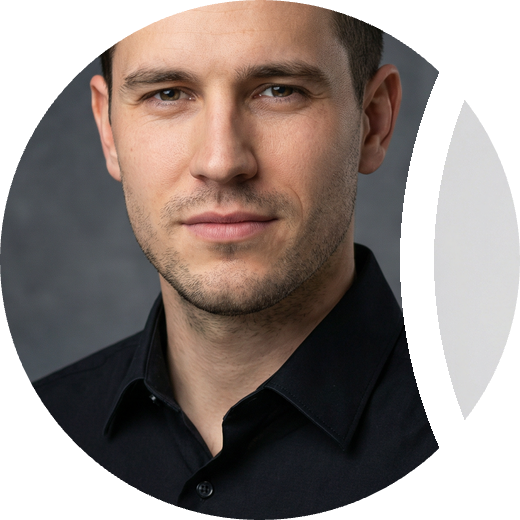
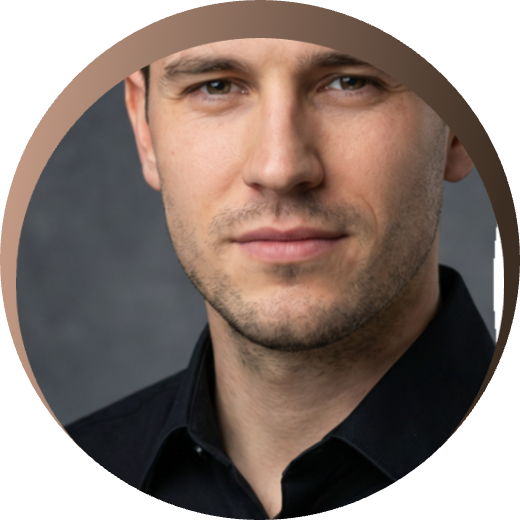
Update homepage and face-5 asset

diff --git a/index.html b/index.html
@@ -190,16 +190,18 @@
   .head .hero-sub u { text-decoration: none; color: var(--amber-2); font-style: italic; font-weight: 600; letter-spacing: -0.045em; }
   .brand-plate {
     position: relative;
-    display: inline-flex; align-items: center; justify-content: center;
+    display: inline-flex; flex-direction: column; align-items: center; justify-content: center; gap: 8px;
     font-family: 'General Sans', 'Geist', sans-serif;
     font-weight: 600; font-size: 20px; letter-spacing: -0.01em;
     color: var(--ink);
-    padding: 18px 44px; margin: 16px auto 22px;
+    padding: 18px 40px 20px; margin: 16px auto 6px;
     border: 2.5px solid var(--amber);
     border-radius: 3px;
     background: transparent;
     box-shadow: 0 3px 14px rgba(169,119,47,0.16);
   }
+  .plate-name { font-size: 15px; letter-spacing: 0.1em; text-transform: uppercase; color: var(--amber-2, var(--amber)); }
+  .brand-plate .hero-hook { font-size: clamp(19px, 2vw, 24px); line-height: 1.3; letter-spacing: -0.02em; max-width: 620px; }
   /* inner beveled line — double-frame molding */
   .brand-plate::before {
     content: "";
@@ -333,7 +335,7 @@
   .face.f2 { background-image: url('assets/face-2.png?v=27'); }
   .face.f3 { background-image: url('assets/face-3.png?v=27'); }
   .face.f4 { background-image: url('assets/face-4.png?v=27'); }
-  .face.f5 { background-image: url('assets/face-5.png?v=27'); }
+  .face.f5 { background-image: url('assets/face-7.png?v=28'); }
   .face.f6 { background-image: url('assets/face-6.png?v=27'); }
   .face.f7 { background-image: url('assets/face-7.png?v=27'); }
 
@@ -986,14 +988,14 @@
     .trust-label { text-align: left; }
     .trust-divider { display: none; }
     /* keep the 130+ firms / Built-by strip horizontal on mobile */
-    .trust-bottom { flex-direction: row; flex-wrap: nowrap; gap: 8px; }
-    .trust-bottom .trust-item { gap: 4px; flex-shrink: 1; min-width: 0; }
-    .trust-bottom .face { width: 24px; height: 24px; margin-left: -8px; border-width: 1.5px; }
+    .trust-bottom { flex-direction: row; flex-wrap: nowrap; gap: 20px; justify-content: center; }
+    .trust-bottom .trust-item { gap: 4px; justify-content: center; }
+    .trust-bottom .face { width: 30px; height: 30px; margin-left: -9px; border-width: 1.5px; }
     .trust-bottom .face:first-child { margin-left: 0; }
-    .trust-bottom .trust-label { font-size: 10px; line-height: 1.35; max-width: none; margin-left: 4px !important; }
-    .trust-bottom .trust-label b { font-size: 11px; }
-    .trust-bottom .creds-row { gap: 5px; }
-    .trust-bottom .creds-logo-img { height: 16px; }
+    .trust-bottom .trust-label { font-size: 12px; line-height: 1.4; max-width: none; margin-left: 5px !important; }
+    .trust-bottom .trust-label b { font-size: 13.5px; }
+    .trust-bottom .creds-row { gap: 6px; }
+    .trust-bottom .creds-logo-img { height: 21px; }
     .bullet { grid-template-columns: 56px 1fr; gap: 14px; }
     .trust-cta-row { flex-direction: column; align-items: center; gap: 14px; }
     .subhead { text-align: center; }
@@ -1106,7 +1108,7 @@
     /* Hero mobile breathing room */
     .hero-wrap .head { margin-bottom: 8px; }
     .hero-wrap { padding-left: 12px !important; padding-right: 12px !important; }
-    .hero-sub { font-size: 15px; letter-spacing: -0.01em; line-height: 1.5; }
+    .hero-sub { font-size: 21px; letter-spacing: -0.02em; line-height: 1.35; }
     .trust-tp-only { padding: 28px 0 0; margin-top: 8px; }
     .trust-cta-row {
       padding-top: 120px !important;
@@ -1136,6 +1138,38 @@
   .callout { margin-top: 0 !important; }
   .testi-carousel { padding-top: 20px !important; }
   .trust-bottom .trust-label b { font-weight: 600; color: var(--ink); }
+  /* ---------- FAQ ---------- */
+  .faq-section { padding: 76px 32px 92px; background: var(--paper-1); }
+  .faq-inner { max-width: 760px; margin: 0 auto; }
+  .faq-head {
+    font-family: 'General Sans', 'Geist', sans-serif;
+    font-size: clamp(26px, 3vw, 36px); font-weight: 600; letter-spacing: -0.03em;
+    color: var(--ink); text-align: center; margin: 0 0 36px;
+  }
+  .faq-item {
+    border: 1px solid var(--line); border-radius: 12px;
+    background: var(--paper-1); margin-bottom: 12px; overflow: hidden;
+    box-shadow: 0 1px 0 rgba(23,51,45,0.04), 0 8px 24px -18px rgba(23,51,45,0.12);
+  }
+  .faq-question {
+    display: flex; align-items: center; justify-content: space-between; gap: 16px;
+    width: 100%; padding: 18px 20px;
+    background: none; border: none; cursor: pointer; text-align: left;
+    font-family: 'General Sans', 'Geist', sans-serif; font-weight: 600;
+    font-size: 17px; letter-spacing: -0.01em; color: var(--ink);
+  }
+  .faq-chev { display: inline-flex; color: var(--amber-2); flex-shrink: 0; transition: transform 0.25s ease; }
+  .faq-item.active .faq-chev { transform: rotate(180deg); }
+  .faq-answer { max-height: 0; overflow: hidden; transition: max-height 0.3s ease; }
+  .faq-item.active .faq-answer { max-height: 340px; }
+  .faq-answer-inner { padding: 0 20px 18px; font-size: 15.5px; line-height: 1.65; color: var(--ink); opacity: 0.78; }
+  @media (max-width: 640px) {
+    .faq-section { padding: 48px 20px 64px; }
+    .faq-head { margin-bottom: 24px; }
+    .faq-question { font-size: 15px; padding: 15px 16px; gap: 12px; }
+    .faq-answer-inner { font-size: 13.5px; line-height: 1.6; padding: 0 16px 15px; }
+    .faq-item.active .faq-answer { max-height: 420px; }
+  }
   .callout {
     max-width: 680px;
     margin: 4px auto 36px;
@@ -1214,13 +1248,15 @@
     margin: 20px auto 0;
   }
   @media (max-width: 640px) {
-    .hero-hook { font-size: 21px; }
+    .hero-hook { font-size: 17.5px; letter-spacing: 0; }
     h1.head > span[aria-hidden="true"] { margin: 12px auto !important; }
-    .brand-plate { font-size: 12px; padding: 7px 16px; }
+    .brand-plate { padding: 12px 18px 14px; gap: 5px; margin-bottom: 2px; }
+    .plate-name { font-size: 11.5px; }
     .callout { padding: 14px 16px; margin-bottom: 24px; }
     .callout-label { font-size: 9.5px; margin-bottom: 8px; }
     .callout p { font-size: 13px; line-height: 1.55; margin-bottom: 10px; }
-    .calendar-band h2 { font-size: 20px; letter-spacing: -0.03em; }
+    .calendar-band h2 { font-size: 19px; letter-spacing: -0.03em; line-height: 1.35; text-wrap: balance; }
+    .calendar-band h2 .mbr { display: none; }
     .mbr { display: block; }
     .bullets-head { font-size: 20px; line-height: 1.3; }
     .bullets-close { font-size: 13.5px; line-height: 1.55; }
@@ -1258,10 +1294,8 @@
 
 
 
-    <div style="text-align:center;"><div class="brand-plate">The Retainer Pixel&trade;</div></div>
-
     <h1 class="head" style="font-size: 32px;">
-      <span class="hero-hook">Personal Injury&rsquo;s First <span class="stanford-mark">Stanford-Built</span> AI Acquisition Pixel &mdash; Pay Only for <u>Signed MVA Retainers</u></span>
+      <span class="brand-plate"><span class="plate-name">The Retainer Pixel&trade;</span><span class="hero-hook">Personal Injury&rsquo;s First <span class="stanford-mark">Stanford-Built</span> AI Acquisition Pixel &mdash; Pay Only for <u>Signed MVA Retainers</u></span></span>
       <span aria-hidden="true" style="display:block;width:96px;height:1px;margin:22px auto;background:var(--amber);opacity:0.85;"></span>
       <span class="hero-sub">Our AI Trained on Signed Cases (Not Clicks) Predictably Sources Exclusive, Clear-Liability MVA Claimants Under Your Brand. Our 24/7 Bilingual Intake Team Signs Them and <u>Guarantees 30 Cases in 90 Days or We Don&rsquo;t Get Paid</u></span>
     </h1>
@@ -1275,8 +1309,6 @@
           <div class="face f3"></div>
           <div class="face f4"></div>
           <div class="face f5"></div>
-          <div class="face f6"></div>
-          <div class="face f7"></div>
         </div>
         <div class="trust-label" style="margin-left:10px;white-space:nowrap;">Trusted by<b>130+ PI Firms</b></div>
       </div>
@@ -1290,11 +1322,11 @@
     </div>
 
     <div class="trust-cta-row" id="founderCta" style="flex-direction:column;gap:10px;">
-      <a href="#calendar" class="cta cta-sm">TALK TO OUR FOUNDER</a>
+      <a href="#calendar" class="cta cta-sm">TALK TO OUR LEGAL GROWTH EXPERT</a>
     </div>
 
     <div class="callout">
-      <div class="callout-label">Read this if your firm does $2M+ a year</div>
+      <div class="callout-label" style="text-align:center;">Read this to learn exactly how this works</div>
       <p>You&rsquo;ve figured out how to win cases. So why is revenue up one month and gone the next? And why does every ad agency get paid either way?</p>
       <p>Because they optimize for form fills, not cases. A bunch of leads, zero retainers. <b>The algorithm had the wrong job.</b></p>
       <p>The Retainer Pixel&trade; is trained on signed retainers: <b>each case you sign fires the data back</b> to our custom ad pixel and teaches it what a viable claimant looks like. Next, our <b>bilingual human team calls in 90 sec</b>. The AI pixel keeps finding viable claimants. Humans make first contact.</p>
@@ -1306,8 +1338,7 @@
 
   <!-- Booking calendar -->
   <section class="calendar-band" id="calendar" data-screen-label="Booking">
-    <h2>If You&rsquo;re Serious About Volume, <span class="mbr"></span>Let&rsquo;s Get You <em>Predictable Retainers.</em></h2>
-    <p class="calendar-sub" style="max-width:720px;margin:14px auto 0;text-align:center;">Book a call with our legal growth expert: <b>where signed retainers leak</b>, a <b>data-driven forecast</b> of what you should sign every month, and a <b>plan</b> for how fast you can hit it.</p>
+    <h2>Book a Free Consultation Call With Our Legal Growth Expert <span class="mbr"></span>So We Can Identify Your <em>Lead Flow Bottlenecks</em></h2>
 <div class="calendar-slot">
   <iframe 
     id="KkvE1y4GIsXSjROLZGBW_1782983225681" 
@@ -1588,10 +1619,82 @@
     </div>
   </section>
 
-  <!-- Ascension close -->
-  <section class="ascend-band" data-screen-label="Ascension Close">
-    <p class="line">Signed retainers landing on schedule. Clear liability, real coverage, no junk.<br><em>A pipeline you can finally plan around.</em></p>
-    <p class="tail">That&rsquo;s what the next million is actually for</p>
+  <!-- FAQ -->
+  <section class="faq-section" id="faq" data-screen-label="FAQ">
+    <div class="faq-inner">
+      <h2 class="faq-head">Frequently Asked Questions</h2>
+
+      <div class="faq-item active">
+        <button class="faq-question" type="button" onclick="this.parentElement.classList.toggle('active');">
+          <span>Do you only work with personal injury firms?</span>
+          <span class="faq-chev" aria-hidden="true"><svg width="16" height="16" viewBox="0 0 16 16" fill="none"><path d="M3 6l5 5 5-5" stroke="currentColor" stroke-width="2" stroke-linecap="round" stroke-linejoin="round"></path></svg></span>
+        </button>
+        <div class="faq-answer">
+          <div class="faq-answer-inner">Yes. We exclusively serve personal injury firms, with a focus on motor vehicle accident cases. Every campaign, intake script, and benchmark is built for PI, not recycled from other verticals.</div>
+        </div>
+      </div>
+
+      <div class="faq-item">
+        <button class="faq-question" type="button" onclick="this.parentElement.classList.toggle('active');">
+          <span>What does the free consultation include?</span>
+          <span class="faq-chev" aria-hidden="true"><svg width="16" height="16" viewBox="0 0 16 16" fill="none"><path d="M3 6l5 5 5-5" stroke="currentColor" stroke-width="2" stroke-linecap="round" stroke-linejoin="round"></path></svg></span>
+        </button>
+        <div class="faq-answer">
+          <div class="faq-answer-inner">We'll review your <b>current marketing performance</b>, pull your <b>competitors' top campaigns</b>, identify <b>gaps in your strategy</b>, and give you a <b>custom growth projection</b> &mdash; including expected lead volume, cost per case, and timeline to results. <b>No strings attached.</b></div>
+        </div>
+      </div>
+
+      <div class="faq-item">
+        <button class="faq-question" type="button" onclick="this.parentElement.classList.toggle('active');">
+          <span>How much does it cost?</span>
+          <span class="faq-chev" aria-hidden="true"><svg width="16" height="16" viewBox="0 0 16 16" fill="none"><path d="M3 6l5 5 5-5" stroke="currentColor" stroke-width="2" stroke-linecap="round" stroke-linejoin="round"></path></svg></span>
+        </button>
+        <div class="faq-answer">
+          <div class="faq-answer-inner">Two models: pay per signed case, or a monthly retainer backed by our signed-retainer guarantee. Exact pricing depends on your market and case capacity. We'll give you exact numbers on the call, no ballpark guesses.</div>
+        </div>
+      </div>
+
+      <div class="faq-item">
+        <button class="faq-question" type="button" onclick="this.parentElement.classList.toggle('active');">
+          <span>Are we locked into a long-term contract?</span>
+          <span class="faq-chev" aria-hidden="true"><svg width="16" height="16" viewBox="0 0 16 16" fill="none"><path d="M3 6l5 5 5-5" stroke="currentColor" stroke-width="2" stroke-linecap="round" stroke-linejoin="round"></path></svg></span>
+        </button>
+        <div class="faq-answer">
+          <div class="faq-answer-inner">No. We work in 90-day sprints with a defined target: 30 signed retainers in 90 days or we don't get paid. If we don't deliver, you can walk away. We earn your business every month.</div>
+        </div>
+      </div>
+
+      <div class="faq-item">
+        <button class="faq-question" type="button" onclick="this.parentElement.classList.toggle('active');">
+          <span>How long until we see signed cases?</span>
+          <span class="faq-chev" aria-hidden="true"><svg width="16" height="16" viewBox="0 0 16 16" fill="none"><path d="M3 6l5 5 5-5" stroke="currentColor" stroke-width="2" stroke-linecap="round" stroke-linejoin="round"></path></svg></span>
+        </button>
+        <div class="faq-answer">
+          <div class="faq-answer-inner">Your campaigns go live within the first week, and the first signed retainers typically land within the first few weeks. The Retainer Pixel gets sharper every month as your signed-case data feeds back in. We'll give you an exact timeline for your market on the call.</div>
+        </div>
+      </div>
+
+      <div class="faq-item">
+        <button class="faq-question" type="button" onclick="this.parentElement.classList.toggle('active');">
+          <span>Where do the cases come from?</span>
+          <span class="faq-chev" aria-hidden="true"><svg width="16" height="16" viewBox="0 0 16 16" fill="none"><path d="M3 6l5 5 5-5" stroke="currentColor" stroke-width="2" stroke-linecap="round" stroke-linejoin="round"></path></svg></span>
+        </button>
+        <div class="faq-answer">
+          <div class="faq-answer-inner">Cold Meta ads run under your firm's own brand. Every claimant is exclusive to you: no shared leads, no aggregators, no recycled lists. Our 24/7 bilingual team calls, screens, and signs them under your name.</div>
+        </div>
+      </div>
+
+      <div class="faq-item">
+        <button class="faq-question" type="button" onclick="this.parentElement.classList.toggle('active');">
+          <span>How is Retainer Engine different from other agencies?</span>
+          <span class="faq-chev" aria-hidden="true"><svg width="16" height="16" viewBox="0 0 16 16" fill="none"><path d="M3 6l5 5 5-5" stroke="currentColor" stroke-width="2" stroke-linecap="round" stroke-linejoin="round"></path></svg></span>
+        </button>
+        <div class="faq-answer">
+          <div class="faq-answer-inner">We only work with PI firms, we get paid on signed cases (not your ad spend), and everything runs under your brand. No long contracts, no jargon. You see exactly where every dollar goes.</div>
+        </div>
+      </div>
+
+    </div>
   </section>
 
 </main>